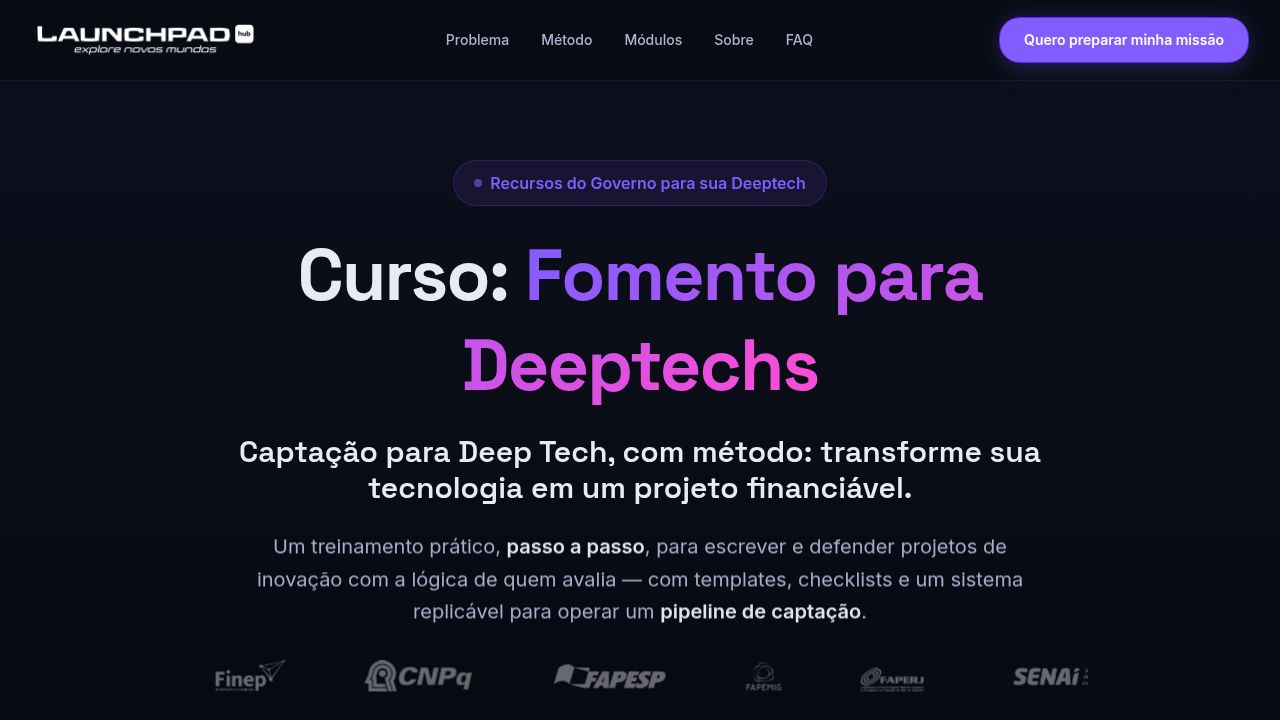
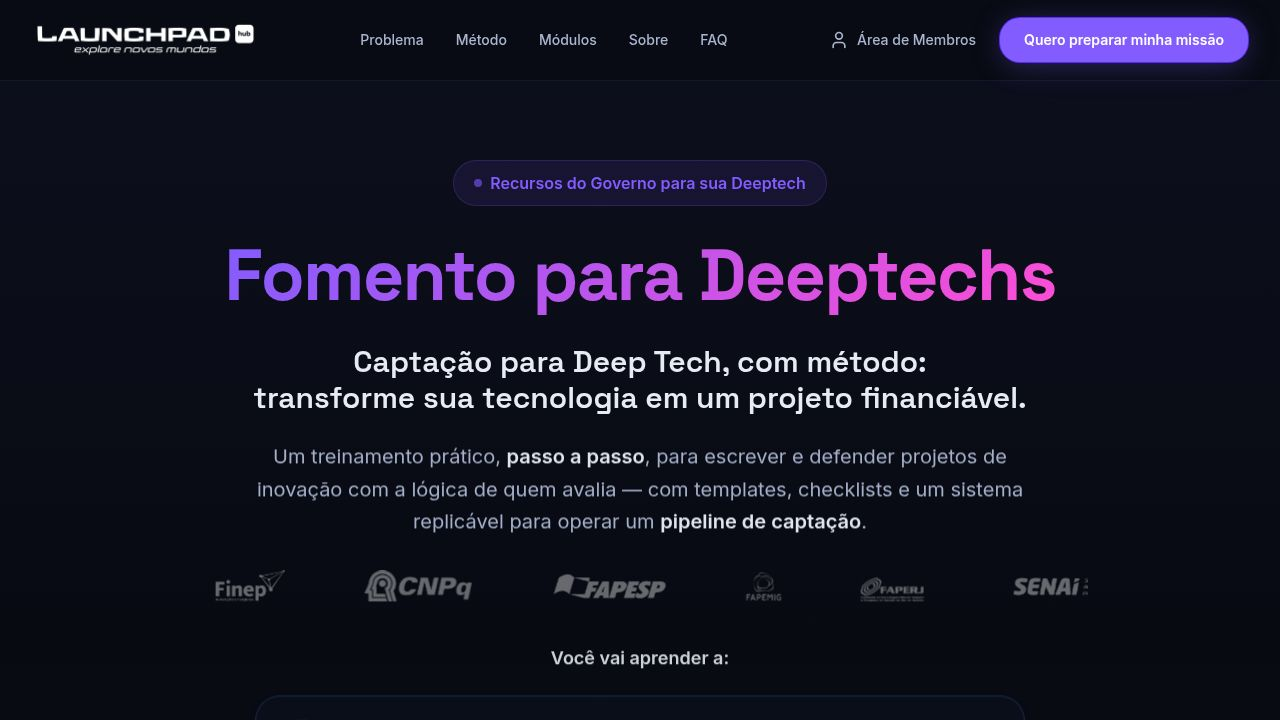
Add a members area link to the top navigation bar
Integrates a discreet "Área de Membros" link in the Navbar component, displayed as an icon and text on desktop and within the hamburger menu on mobile, linking to https://membros.deeptechs.com.br/.

Replit-Commit-Author: Agent
Replit-Commit-Session-Id: cc5c72fd-722a-40cb-bd3e-0e9b45827596
Replit-Commit-Checkpoint-Type: full_checkpoint
Replit-Commit-Event-Id: 17181611-2a1b-4462-a0b4-448391092cc3
Replit-Commit-Screenshot-Url: https://storage.googleapis.com/screenshot-production-us-central1/c94249a8-a676-40ce-bce9-b202edd17bc7/cc5c72fd-722a-40cb-bd3e-0e9b45827596/SI1EQWV
Replit-Helium-Checkpoint-Created: true

diff --git a/client/src/components/landing/Navbar.tsx b/client/src/components/landing/Navbar.tsx
@@ -1,5 +1,5 @@
 import { useState } from "react";
-import { Menu, X } from "lucide-react";
+import { Menu, X, User } from "lucide-react";
 
 const navLinks = [
   { href: "#problema", label: "Problema" },
@@ -41,7 +41,19 @@ export function Navbar() {
             ))}
           </div>
 
-          <div className="hidden lg:block">
+          <div className="hidden lg:flex items-center gap-6">
+            <a
+              href="https://membros.deeptechs.com.br/"
+              target="_blank"
+              rel="noopener noreferrer"
+              className="inline-flex items-center gap-2 text-sm font-medium text-text-muted hover:text-cta transition-colors duration-200"
+              title="Área de Membros"
+              data-testid="link-members-desktop"
+            >
+              <User className="w-5 h-5" />
+              <span className="hidden xl:inline">Área de Membros</span>
+            </a>
+
             <a
               href="#oferta"
               className="inline-flex items-center justify-center px-6 py-3 text-sm font-semibold text-white bg-cta hover:bg-cta/90 rounded-xl transition-all duration-200 cta-glow"
@@ -76,6 +88,17 @@ export function Navbar() {
                 {link.label}
               </a>
             ))}
+            <a
+              href="https://membros.deeptechs.com.br/"
+              target="_blank"
+              rel="noopener noreferrer"
+              onClick={() => setIsOpen(false)}
+              className="flex items-center gap-2 py-2 text-base font-medium text-text-muted hover:text-cta transition-colors"
+              data-testid="link-mobile-members"
+            >
+              <User className="w-5 h-5" />
+              Área de Membros
+            </a>
             <a
               href="#oferta"
               onClick={() => setIsOpen(false)}